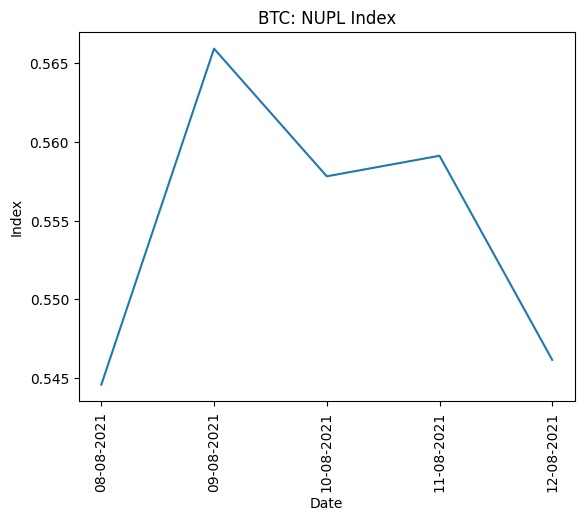
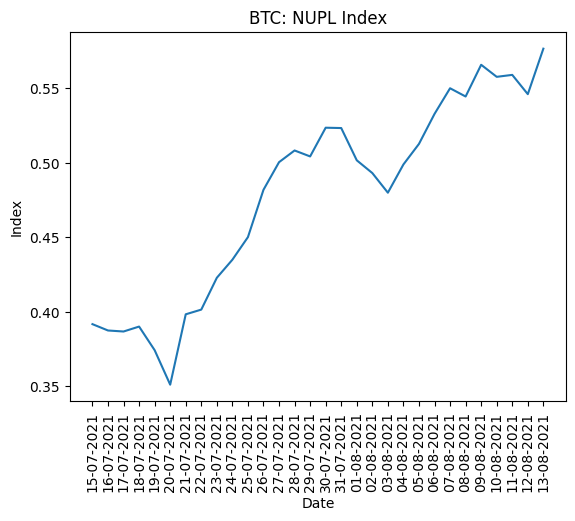
u

diff --git a/botv4.py b/botv4.py
@@ -2,7 +2,7 @@ import json
 import requests
 import pandas as pd
 import matplotlib.pyplot as plt
-import jinja2
+#import jinja2
 import os, sys
 
 import telegram
@@ -24,7 +24,7 @@ logging.basicConfig(format='%(asctime)s - %(name)s - %(levelname)s - %(message)s
 
 def nuplFunc(update, context, currency):
     req = requests.get('https://community-api.coinmetrics.io/v4/timeseries/asset-metrics?assets=%s&'
-                       'metrics=CapRealUSD,CapMrktCurUSD&limit_per_asset=5' % currency).json()
+                       'metrics=CapRealUSD,CapMrktCurUSD&limit_per_asset=30' % currency).json()
     req = str(req['data'])
     req = req.replace("\'", "\"")
     req = json.loads(req)
